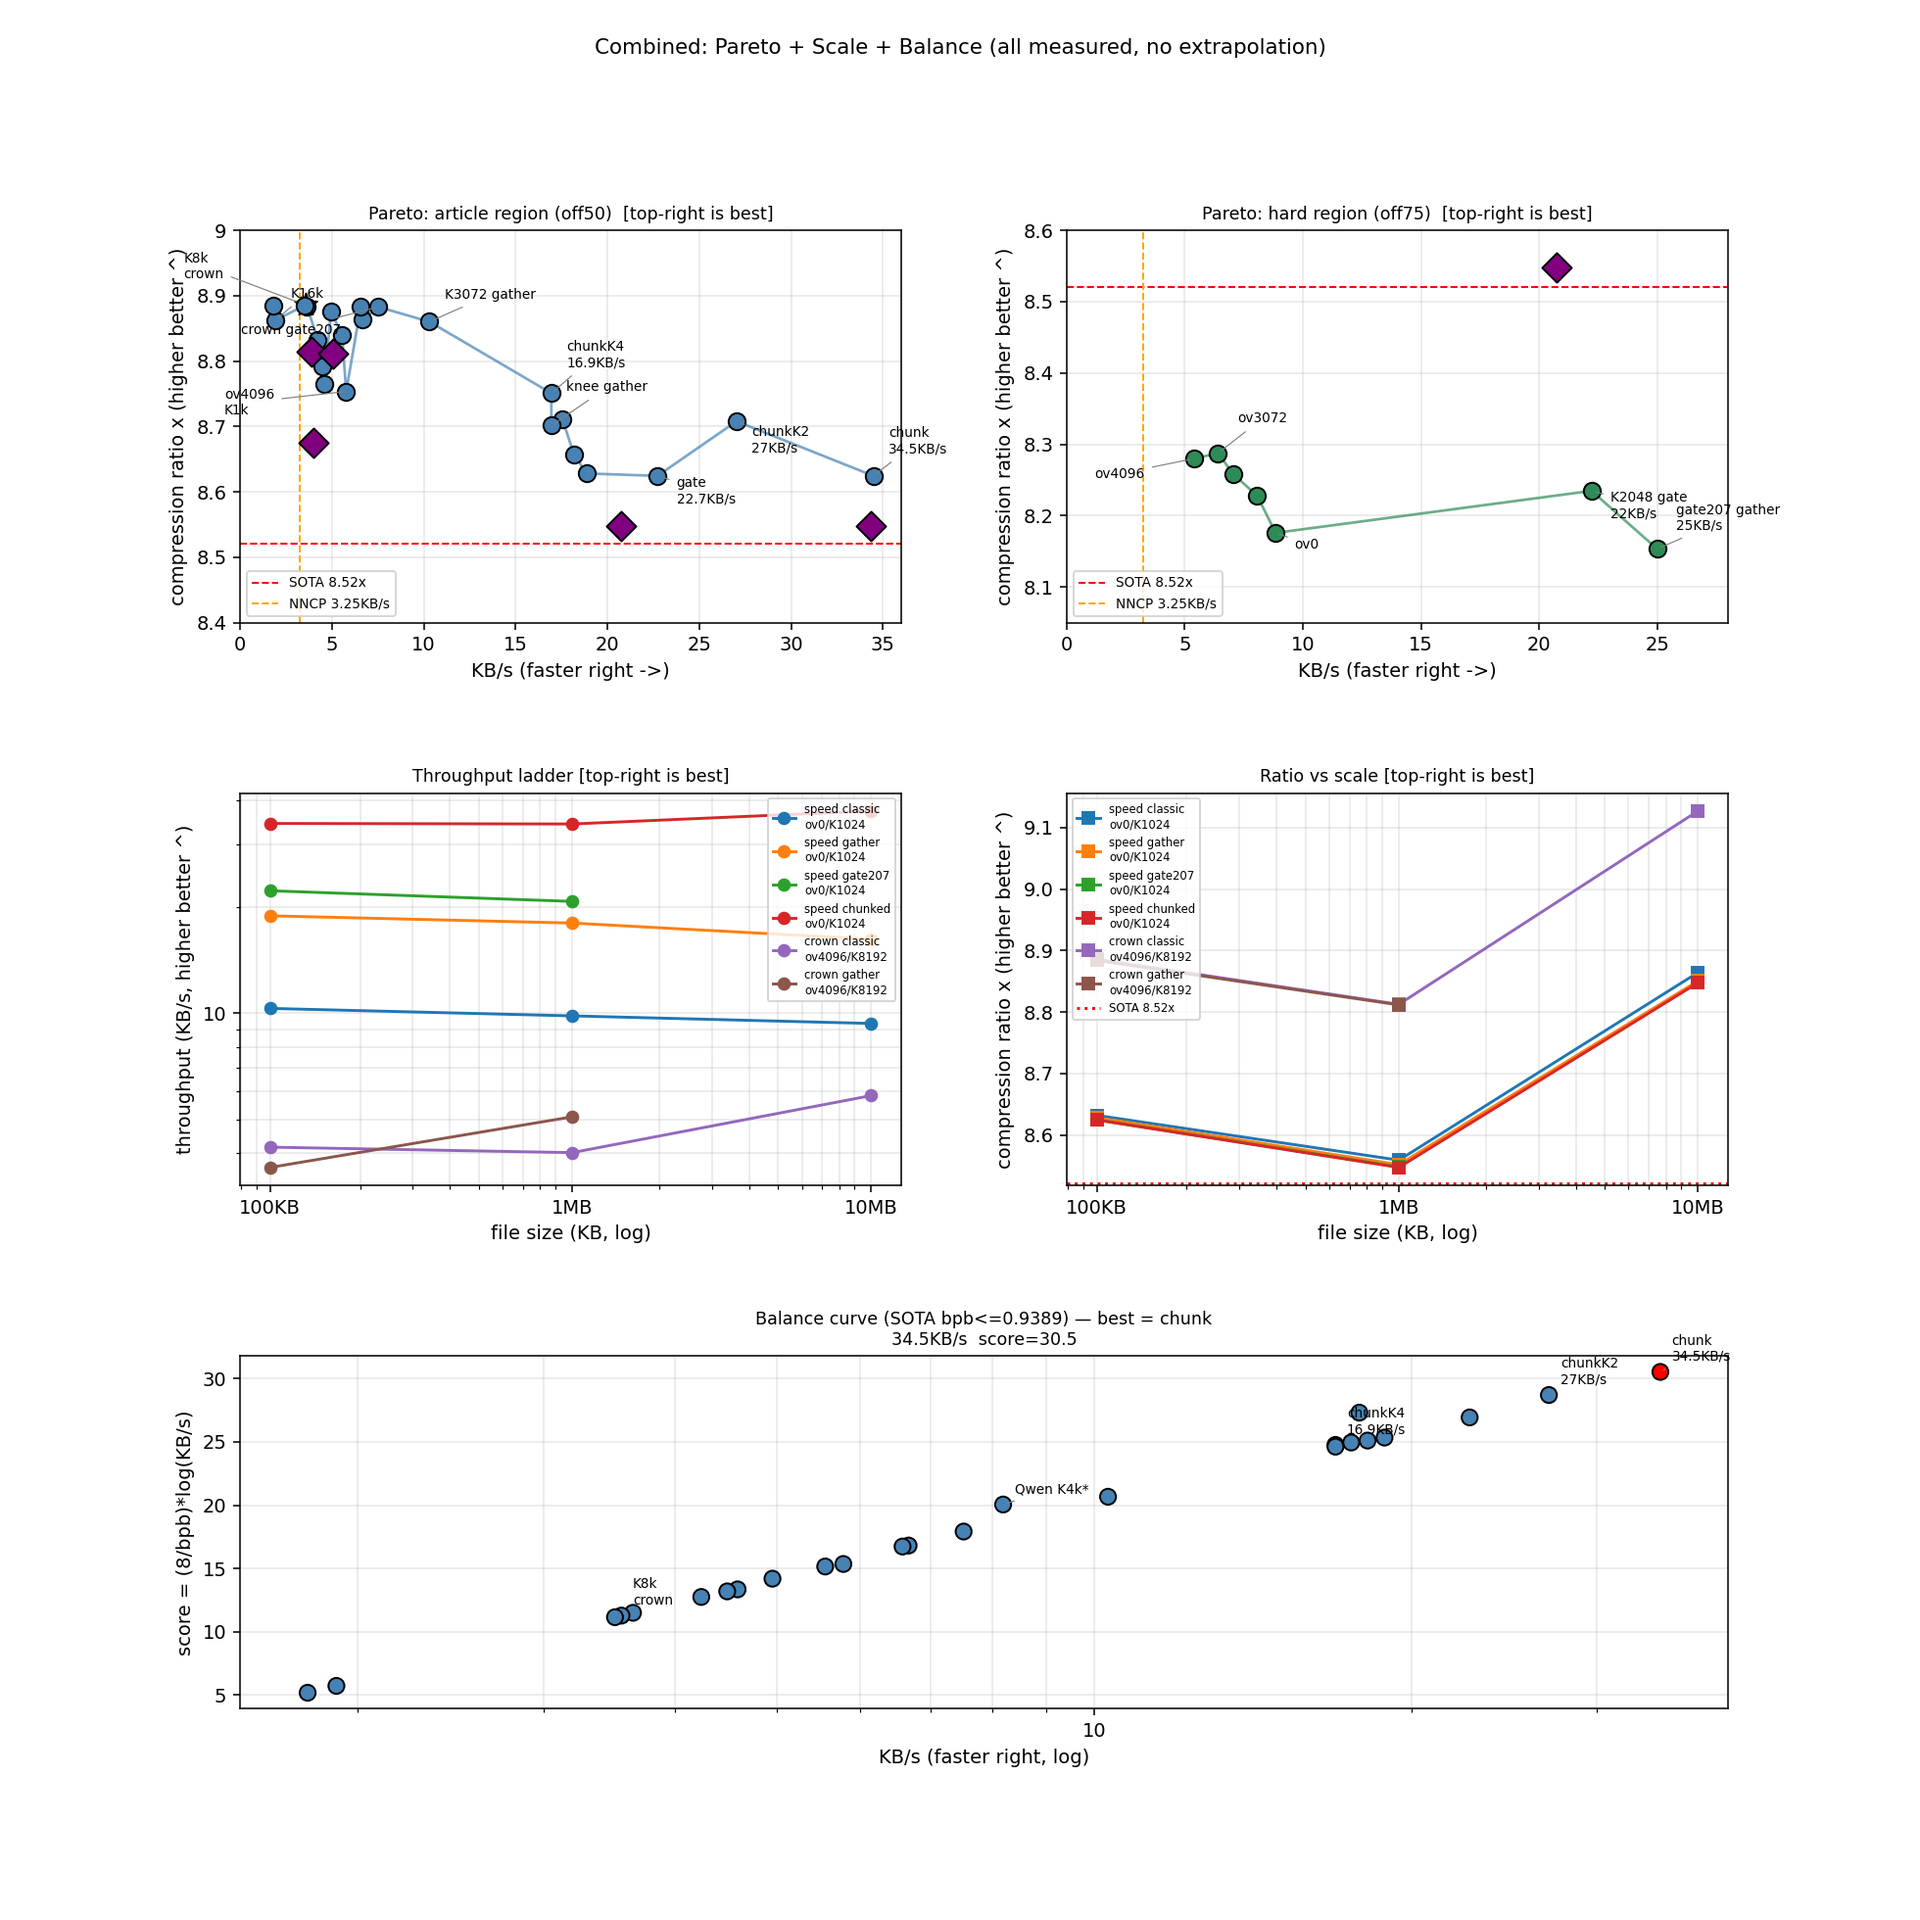
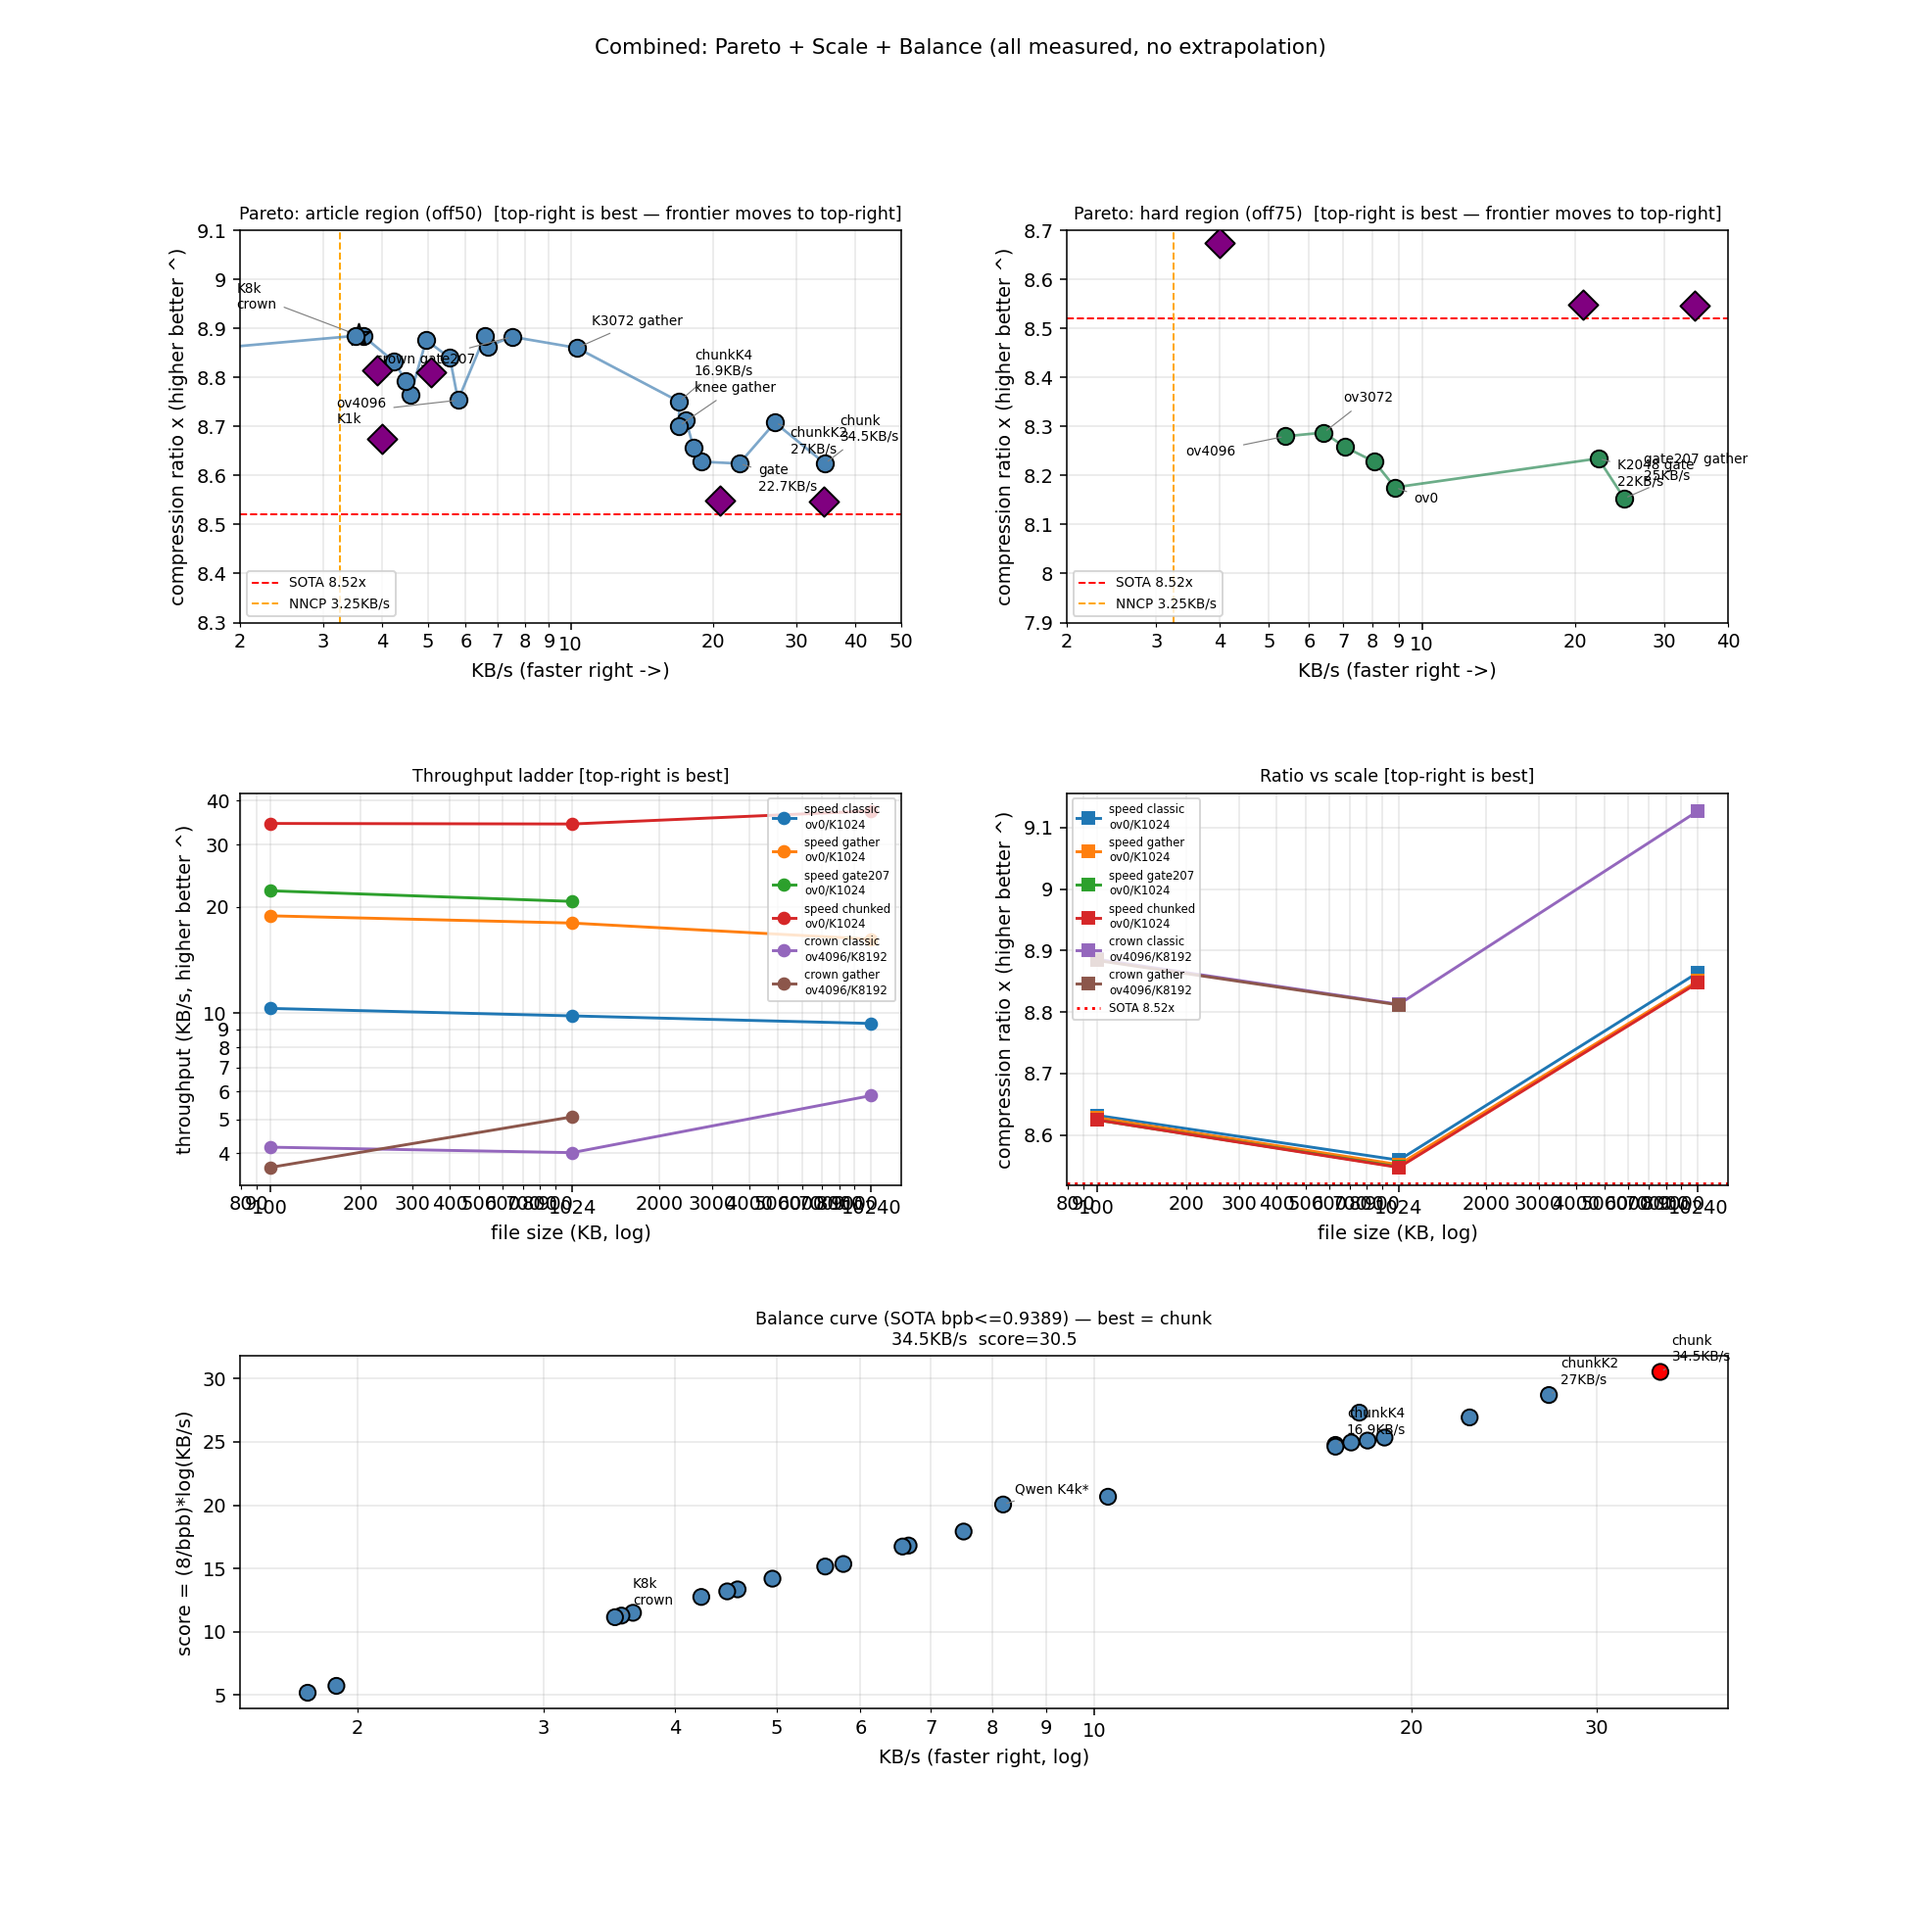
Pareto: log KB/s + widen y to 8.3-9.1 so top-right is best frontier, not down-right

diff --git a/tools/combined_plot.py b/tools/combined_plot.py
@@ -70,11 +70,11 @@ SOTA_BPB = 0.9389
 SOTA_RATIO = 8.0 / SOTA_BPB
 NNCP_KBS = 3.25
 def plain(ax):
-    # force plain numbers on both axes, no 1x10^1
+    # plain numbers, keep minor ticks visible (no 1x10^1)
     ax.yaxis.set_major_formatter(FuncFormatter(lambda y,_: f"{y:g}"))
-    ax.yaxis.set_minor_formatter(NullFormatter())
+    ax.yaxis.set_minor_formatter(FuncFormatter(lambda y,_: f"{y:g}"))
     ax.xaxis.set_major_formatter(FuncFormatter(lambda x,_: f"{x:g}"))
-    ax.xaxis.set_minor_formatter(NullFormatter())
+    ax.xaxis.set_minor_formatter(FuncFormatter(lambda x,_: f"{x:g}"))
 def score(kbs,bpb): return (8/bpb)*math.log(kbs) if kbs>0 else 0
 
 fig = plt.figure(figsize=(14, 14))
@@ -98,15 +98,15 @@ def pareto_panel(ax, pts, title, ymin, ymax, color, show, offsets, xlim):
         ax.scatter([x],[8/b], s=120, marker="D", color="purple", edgecolors="black", zorder=4)
         # only label on left panel to avoid duplication
     ax.set_xlabel("KB/s (faster right ->)"); ax.set_ylabel("compression ratio x (higher better ^)")
-    ax.set_title(title+"  [top-right is best]", fontsize=9); ax.set_ylim(ymin,ymax); ax.set_xlim(0,xlim)
-    ax.grid(True, alpha=0.3); ax.legend(fontsize=7, loc="lower left"); plain(ax)
+    ax.set_title(title+"  [top-right is best — frontier moves to top-right]", fontsize=9); ax.set_ylim(ymin,ymax); ax.set_xscale("log"); ax.set_xlim(2, xlim)
+    ax.grid(True, which="both", alpha=0.3); ax.legend(fontsize=7, loc="lower left"); plain(ax)
 
-ax1 = fig.add_subplot(gs[0,0]); pareto_panel(ax1, OFF50, "Pareto: article region (off50)", 8.4, 9.0, "steelblue",
+ax1 = fig.add_subplot(gs[0,0]); pareto_panel(ax1, OFF50, "Pareto: article region (off50)", 8.3, 9.1, "steelblue",
     show=("K8k\ncrown","K16k","knee gather","ov4096\nK1k","K3072 gather","chunk\n34.5KB/s","chunkK2\n27KB/s","chunkK4\n16.9KB/s","gate\n22.7KB/s","crown gate207"),
-    offsets={"K8k\ncrown":(-64,14),"K16k":(8,12),"knee gather":(8,18),"ov4096\nK1k":(-64,-12),"K3072 gather":(8,12),"chunk\n34.5KB/s":(8,12),"chunkK2\n27KB/s":(8,-16),"chunkK4\n16.9KB/s":(8,14),"gate\n22.7KB/s":(10,-14),"crown gate207":(-72,-14)}, xlim=36)
-ax2 = fig.add_subplot(gs[0,1]); pareto_panel(ax2, OFF75, "Pareto: hard region (off75)", 8.05, 8.6, "seagreen",
+    offsets={"K8k\ncrown":(-64,14),"K16k":(8,12),"knee gather":(8,18),"ov4096\nK1k":(-64,-12),"K3072 gather":(8,12),"chunk\n34.5KB/s":(8,12),"chunkK2\n27KB/s":(8,-16),"chunkK4\n16.9KB/s":(8,14),"gate\n22.7KB/s":(10,-14),"crown gate207":(-72,-14)}, xlim=50)
+ax2 = fig.add_subplot(gs[0,1]); pareto_panel(ax2, OFF75, "Pareto: hard region (off75)", 7.9, 8.7, "seagreen",
     show=("ov4096","ov3072","ov0","gate207 gather\n25KB/s","K2048 gate\n22KB/s"),
-    offsets={"ov4096":(-52,-10),"ov3072":(10,16),"ov0":(10,-8),"gate207 gather\n25KB/s":(10,10),"K2048 gate\n22KB/s":(10,-14)}, xlim=28)
+    offsets={"ov4096":(-52,-10),"ov3072":(10,16),"ov0":(10,-8),"gate207 gather\n25KB/s":(10,10),"K2048 gate\n22KB/s":(10,-14)}, xlim=40)
 
 # scale
 def kbs(sz,sec): return [s/t for s,t in zip(sz,sec)]
@@ -116,7 +116,8 @@ for n,ts in TIME.items():
     ax3.loglog(xs,ys,"o-", label=n)
 ax3.set_xlabel("file size (KB, log)"); ax3.set_ylabel("throughput (KB/s, higher better ^)")
 ax3.set_title("Throughput ladder [top-right is best]", fontsize=9); ax3.set_xticks(SIZES_KB); ax3.set_xticklabels(SIZES_LBL)
-ax3.yaxis.set_major_formatter(FuncFormatter(lambda y,_: f"{y:g}")); ax3.yaxis.set_minor_formatter(NullFormatter()); ax3.xaxis.set_minor_formatter(NullFormatter())
+ax3.yaxis.set_major_formatter(FuncFormatter(lambda y,_: f"{y:g}")); ax3.yaxis.set_minor_formatter(FuncFormatter(lambda y,_: f"{y:g}"))
+ax3.xaxis.set_major_formatter(FuncFormatter(lambda x,_: f"{x:g}")); ax3.xaxis.set_minor_formatter(FuncFormatter(lambda x,_: f"{x:g}"))
 ax3.grid(True, which="both", alpha=0.3); ax3.legend(fontsize=6)
 
 ax4 = fig.add_subplot(gs[1,1])
@@ -126,7 +127,9 @@ for n,bs in BPB.items():
 ax4.axhline(SOTA_RATIO, color="red", linestyle=":", label="SOTA 8.52x")
 ax4.set_xlabel("file size (KB, log)"); ax4.set_ylabel("compression ratio x (higher better ^)")
 ax4.set_title("Ratio vs scale [top-right is best]", fontsize=9); ax4.set_xticks(SIZES_KB); ax4.set_xticklabels(SIZES_LBL)
-ax4.grid(True, which="both", alpha=0.3); ax4.legend(fontsize=6); ax4.xaxis.set_minor_formatter(NullFormatter())
+ax4.grid(True, which="both", alpha=0.3); ax4.legend(fontsize=6)
+ax4.yaxis.set_major_formatter(FuncFormatter(lambda y,_: f"{y:g}")); ax4.yaxis.set_minor_formatter(FuncFormatter(lambda y,_: f"{y:g}"))
+ax4.xaxis.set_major_formatter(FuncFormatter(lambda x,_: f"{x:g}")); ax4.xaxis.set_minor_formatter(FuncFormatter(lambda x,_: f"{x:g}"))
 
 # balance
 PTS = OFF50 + [("Qwen K2k",100/5.6,0.8442),("Qwen K4k*",100/12.2,0.8391)]
@@ -141,8 +144,8 @@ for x,y,l in zip(xs,ys,[p[0] for p in PTS]):
 ax5.set_xscale("log"); ax5.set_xlabel("KB/s (faster right, log)"); ax5.set_ylabel("score = (8/bpb)*log(KB/s)")
 ax5.set_title(f"Balance curve (SOTA bpb<={SOTA_BPB}) — best = {best[0]}  score={score(best[1],best[2]):.1f}", fontsize=9)
 ax5.grid(True, which="both", alpha=0.3)
-ax5.yaxis.set_major_formatter(FuncFormatter(lambda y,_: f"{y:g}")); ax5.yaxis.set_minor_formatter(NullFormatter())
-ax5.xaxis.set_major_formatter(FuncFormatter(lambda x,_: f"{x:g}")); ax5.xaxis.set_minor_formatter(NullFormatter())
+ax5.yaxis.set_major_formatter(FuncFormatter(lambda y,_: f"{y:g}")); ax5.yaxis.set_minor_formatter(FuncFormatter(lambda y,_: f"{y:g}"))
+ax5.xaxis.set_major_formatter(FuncFormatter(lambda x,_: f"{x:g}")); ax5.xaxis.set_minor_formatter(FuncFormatter(lambda x,_: f"{x:g}"))
 
 fig.suptitle("Combined: Pareto + Scale + Balance (all measured, no extrapolation)", fontsize=11)
 fig.tight_layout(rect=[0,0,1,0.96])

diff --git a/tools/pareto_plot.py b/tools/pareto_plot.py
@@ -75,10 +75,11 @@ def _base(title, ymin, ymax):
                label="NNCP v2 speed 3.25KB/s (slower left)")
     ax.set_xlabel("KB/s (faster right ->)")
     ax.set_ylabel("compression ratio x (higher better ^)")
-    ax.set_title(title + "  [top-right is best]")
+    ax.set_title(title + "  [top-right is best — frontier moves to top-right]")
     ax.set_ylim(ymin, ymax)
+    ax.set_xscale("log")
     ax.legend(loc="lower left", bbox_to_anchor=(0.01, 0.01), fontsize=9)
-    ax.grid(True, alpha=0.3)
+    ax.grid(True, which="both", alpha=0.3)
     _plain(ax)
     return fig, ax
 
@@ -116,7 +117,7 @@ def _diamonds(ax):
 
 # ---- plot 1: off50 frontier ----
 fig, ax = _base("Speed vs ratio, article region (SmolLM2-135M, measured)",
-                8.4, 9.0)
+                8.3, 9.1)
 _dots(ax, OFF50, "steelblue", show=("K8k\ncrown", "K16k", "knee gather",
                                     "ov4096\nK1k", "K3072 gather",
                                     "chunk\n34.5KB/s", "chunkK2\n27KB/s",
@@ -129,14 +130,14 @@ _dots(ax, OFF50, "steelblue", show=("K8k\ncrown", "K16k", "knee gather",
                "chunkK2\n27KB/s": (8, -16), "chunkK4\n16.9KB/s": (8, 14),
                "gate\n22.7KB/s": (10, -14), "crown gate207": (-72, -14)})
 _diamonds(ax)
-ax.set_xlim(0, 36)
+ax.set_xlim(2, 50)
 fig.tight_layout()
 fig.savefig("pareto_off50.png", dpi=120)
 print("saved pareto_off50.png")
 
 # ---- plot 2: off75 hard region ----
 fig, ax = _base("Speed vs ratio, hard region (SmolLM2-135M, measured)",
-                8.05, 8.6)
+                7.9, 8.7)
 _dots(ax, OFF75, "seagreen", show=("ov4096", "ov3072", "ov0",
                                     "gate207 gather\n25KB/s",
                                     "K2048 gate\n22KB/s"),
@@ -144,7 +145,7 @@ _dots(ax, OFF75, "seagreen", show=("ov4096", "ov3072", "ov0",
                "gate207 gather\n25KB/s": (10, 10),
                "K2048 gate\n22KB/s": (10, -14)})
 _diamonds(ax)
-ax.set_xlim(0, 28)
+ax.set_xlim(2, 40)
 fig.tight_layout()
 fig.savefig("pareto_off75.png", dpi=120)
 print("saved pareto_off75.png")
